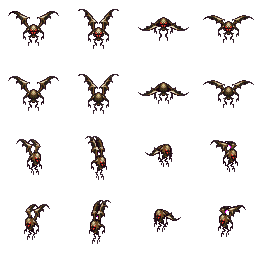
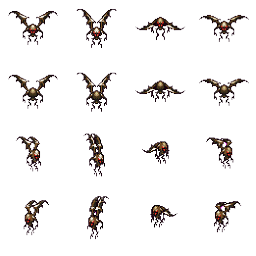
Animations for Flying enemy are working

diff --git a/Classes/enemies/IdleBehaviour.cpp b/Classes/enemies/IdleBehaviour.cpp
@@ -2,8 +2,14 @@
 #include "IdleBehaviour.h"
 #include "box2d/b2dSprite.h"
 #include <random>
+#define STATE_COOLDOWN 2.f
 
-void IdleBehaviour::perform(IEnemy* enemy) {
+IdleBehaviour::IdleBehaviour(){
+	_stateCooldown = STATE_COOLDOWN;
+	_state = 0;
+}
+
+void IdleBehaviour::perform(IEnemy* enemy, float dt) {
 	if (!enemy) {
 		CCLOG("ERROR IN IDLE BEHAVIOUR");
 		return;
@@ -33,27 +39,43 @@ void IdleBehaviour::perform(IEnemy* enemy) {
 		}
 	}
 	if (enemy->getType()->getTypeName() == "FlyingEnemy") {
-		std::random_device rd;
-		std::uniform_int_distribution<int> dist(0, 2);
-		auto state = dist(rd);
-		if (state == static_cast<int>(eIdleState::Sleep)) {
-
+		if (_stateCooldown <= 0) {
+			std::random_device rd;
+			std::uniform_int_distribution<int> dist(0, 2);
+			_state = static_cast<int>(dist(rd));
+			_stateCooldown = STATE_COOLDOWN;
 		}
-		if (state == static_cast<int>(eIdleState::MoveRight)) {
-			//enemy->stopAllActions();
-			Animation* moveRightAnimation = Animation::createWithSpriteFrames(enemy->getType()->getMoveRightFrames());
-			Animate* moveRightAnim = Animate::create(moveRightAnimation);
-			Action* moveRightAct = Repeat::create(moveRightAnim, 1);
-			enemy->runAction(moveRightAct);
-			enemy->setPositionX(enemy->getPosition().x + 3);
-		}
-		if (state == static_cast<int>(eIdleState::MoveLeft)) {
-			//enemy->stopAllActions();
-			Animation* moveLeftAnimation = Animation::createWithSpriteFrames(enemy->getType()->getMoveLeftFrames());
-			Animate* moveLeftAnim = Animate::create(moveLeftAnimation);
-			Action* moveLeftAct = Repeat::create(moveLeftAnim, 1);
-			enemy->runAction(moveLeftAct);
-			enemy->setPositionX(enemy->getPosition().x - 3);
+		if (_stateCooldown >= 0) {
+			if (_state == static_cast<int>(eIdleState::Sleep)) {
+				if (!enemy->getActionByTag(0)) {
+					Animation* idleAnimation = Animation::createWithSpriteFrames(enemy->getType()->getIdleFrames(), 0.13f);
+					Animate* idleAnim = Animate::create(idleAnimation);
+					Action* idleAction = Repeat::create(idleAnim, 1);
+					idleAction->setTag(0);
+					enemy->runAction(idleAction);
+				}
+			}
+			if (_state == static_cast<int>(eIdleState::MoveRight)) {
+				if (!enemy->getActionByTag(1)) {
+					Animation* moveRightAnimation = Animation::createWithSpriteFrames(enemy->getType()->getMoveRightFrames(), 0.13f);
+					Animate* moveRightAnim = Animate::create(moveRightAnimation);
+					Action* moveRightAct = Repeat::create(moveRightAnim, 1);
+					moveRightAct->setTag(1);
+					enemy->runAction(moveRightAct);
+				}
+				enemy->setPositionX(enemy->getPosition().x + 3);
+			}
+			if (_state == static_cast<int>(eIdleState::MoveLeft)) {
+				if (!enemy->getActionByTag(2)) {
+					Animation* moveLeftAnimation = Animation::createWithSpriteFrames(enemy->getType()->getMoveLeftFrames(), 0.13f);
+					Animate* moveLeftAnim = Animate::create(moveLeftAnimation);
+					Action* moveLeftAct = Repeat::create(moveLeftAnim, 1);
+					moveLeftAct->setTag(2);
+					enemy->runAction(moveLeftAct);
+				}
+					enemy->setPositionX(enemy->getPosition().x - 3);
+			}
+			_stateCooldown -= dt;
 		}
 	}
 }

diff --git a/Classes/MainScene.cpp b/Classes/MainScene.cpp
@@ -97,8 +97,10 @@ bool MainScene::init() {
         showImGui(); }, "Function ID");
 
     scheduleUpdate();
-    _test = DrawNode::create();
-    addChild(_test);
+
+    /*_test = DrawNode::create();
+    _test->setName("DrawNode");
+    addChild(_test);*/
 
     /*NoticeBox* nBox = NoticeBox::create();
     auto tempLabel = Label::create();
@@ -143,7 +145,7 @@ void MainScene::update(float dt) {
         }
     }
 
-    //ccDrawLine(_player->getPosition(), { 0, 0 });
+    
 
     enemies.erase(std::remove_if(enemies.begin(), enemies.end(),
         [](IEnemy* enemy) { return enemy->isDestroyed(); }),
@@ -239,6 +241,18 @@ void MainScene::showImGui() {
         nBox->printText(tempLabel);
         addChild(nBox);
     }*/
+    static bool isTouchedDrawNode = false;
+    if (ImGui::Button("DebugNode")) {
+        if (!isTouchedDrawNode) {
+            isTouchedDrawNode = true;
+        }
+        else {
+            isTouchedDrawNode = false;
+        }
+        if (isTouchedDrawNode) {
+            ccDrawLine(_player->getPosition(), { 0, 0 });
+        }
+    }
     static bool isToucedMetric = false;
     if (ImGui::Button("Metrics")) {
         if (!isToucedMetric) {

diff --git a/Classes/enemies/IEnemy.cpp b/Classes/enemies/IEnemy.cpp
@@ -18,7 +18,7 @@ IEnemy::~IEnemy() {
 }
 
 void IEnemy::update(float dt) {
-	_behaviour->perform(this);
+	_behaviour->perform(this, dt);
 	//if (_behaviour == )
 	shoot(_shootTarget, new EnemyIdleBulletCreator);
 	shootingCharacterUpdate(dt);
@@ -101,7 +101,7 @@ void IEnemy::createHpLabel() {
 		CCLOG("Error in createHpLabel IEnemy");
 		return;
 	}
-	_hpLabel->setTextColor(Color4B(0, 0, 0, 200));
+	_hpLabel->setTextColor(Color4B(255, 255, 255, 200));
 	addChild(_hpLabel);
 	const auto posX = getOffsetPosition().x;
 	const auto posY = getOffsetPosition().y;

diff --git a/Classes/enemies/Enemy.cpp b/Classes/enemies/Enemy.cpp
@@ -26,10 +26,7 @@ Enemy* Enemy::create(Node* node, Vec2 pos, IEnemyType* type, IEnemyBehaviour* be
 		enemyObj->getBody()->SetFixedRotation(true);
 		enemyObj->setPosition(pos);
 		enemyObj->createHpLabel();
-		Animation* idleAnimation = Animation::createWithSpriteFrames(type->getIdleFrames(), 0.13f);
-		Animate* idleAnim = Animate::create(idleAnimation);
-		Action* idleAction = RepeatForever::create(idleAnim);
-		//enemyObj->runAction(idleAction);
+		behaviour->perform(enemyObj, 0.f);
 		return enemyObj;
 	}
 	CC_SAFE_DELETE(enemyObj);

diff --git a/Classes/enemies/IdleBehaviour.h b/Classes/enemies/IdleBehaviour.h
@@ -1,19 +1,20 @@
 #pragma once
 #include "IEnemyBehaviour.h"
 
-enum class eIdleState {
-	Sleep,
-	MoveRight,
-	MoveLeft
-};
-
 class IdleBehaviour : public IEnemyBehaviour {
+	enum class eIdleState {
+		Sleep,
+		MoveRight,
+		MoveLeft
+	};
 public:
+	IdleBehaviour();
 	~IdleBehaviour() {}
-	void perform(IEnemy* enemy) override;
+	void perform(IEnemy* enemy, float dt) override;
 	std::string getBehaviourName() const override;
 private:
 	eIdleState _idleState;
 	int _startPos;
 	bool _completed;
+	int _state;
 };

diff --git a/Classes/enemies/IEnemy.h b/Classes/enemies/IEnemy.h
@@ -5,6 +5,11 @@
 class IEnemyBehaviour;
 
 class IEnemy : public ShootingCharacter {
+	enum class eAnimState {
+		None,
+		Move,
+		Attack
+	};
 public:
 	IEnemy(IEnemyType* type = nullptr, IEnemyBehaviour* behaviour = nullptr);
 	virtual ~IEnemy();
@@ -41,11 +46,5 @@ private:
 	bool _destroyed;
 	bool _damaged;
 	Label* _hpLabel;
-
-	enum class eAnimState {
-		None, 
-		Move,
-		Attack
-	};
 	eAnimState _animState;
 };

diff --git a/Classes/enemies/IEnemyBehaviour.h b/Classes/enemies/IEnemyBehaviour.h
@@ -5,8 +5,9 @@
 class IEnemyBehaviour {
 public:
 	virtual ~IEnemyBehaviour() {}
-	virtual void perform(IEnemy* enemy) = 0;
+	virtual void perform(IEnemy* enemy, float dt) = 0;
 	virtual std::string getBehaviourName() const = 0;
 protected:
 	std::string _name;
+	float _stateCooldown;
 };

diff --git a/Classes/enemies/AgressiveBehaviour.h b/Classes/enemies/AgressiveBehaviour.h
@@ -4,6 +4,6 @@
 class AgressiveBehaviour : public IEnemyBehaviour {
 public:
 	~AgressiveBehaviour() {}
-	void perform(IEnemy* enemy) override;
+	void perform(IEnemy* enemy, float dt) override;
 	std::string getBehaviourName() const override;
 };

diff --git a/Classes/enemies/AgressiveBehaviour.cpp b/Classes/enemies/AgressiveBehaviour.cpp
@@ -1,7 +1,7 @@
 #pragma once
 #include "AgressiveBehaviour.h"
 
-void AgressiveBehaviour::perform(IEnemy* enemy) {
+void AgressiveBehaviour::perform(IEnemy* enemy, float dt) {
 
 }
 
